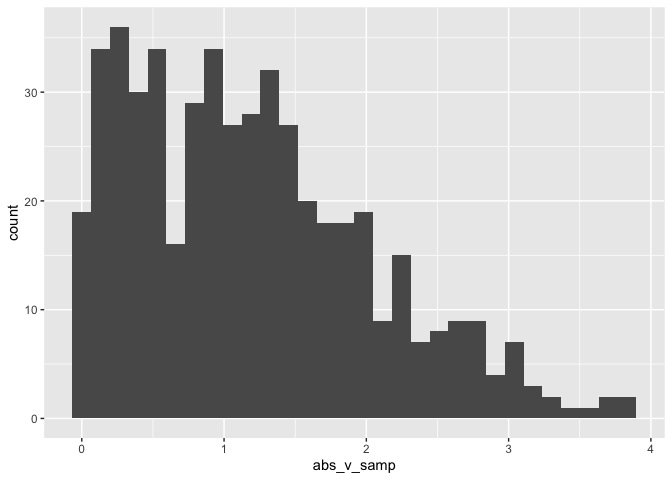
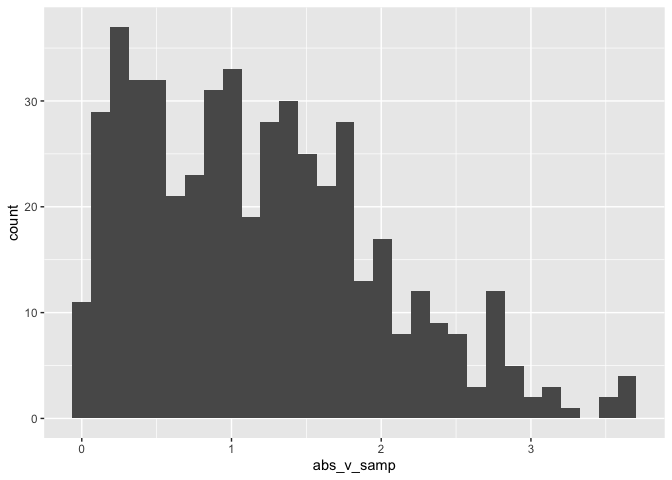
i reknit template and got a different random sample.

diff --git a/template.md b/template.md
@@ -20,7 +20,7 @@ length(samp)
 
 # Section 2
 
-I can take the mean of the sample, too! The mean is 0.0807999.
+I can take the mean of the sample, too! The mean is -0.012522.
 
 # Learning assessment
 
